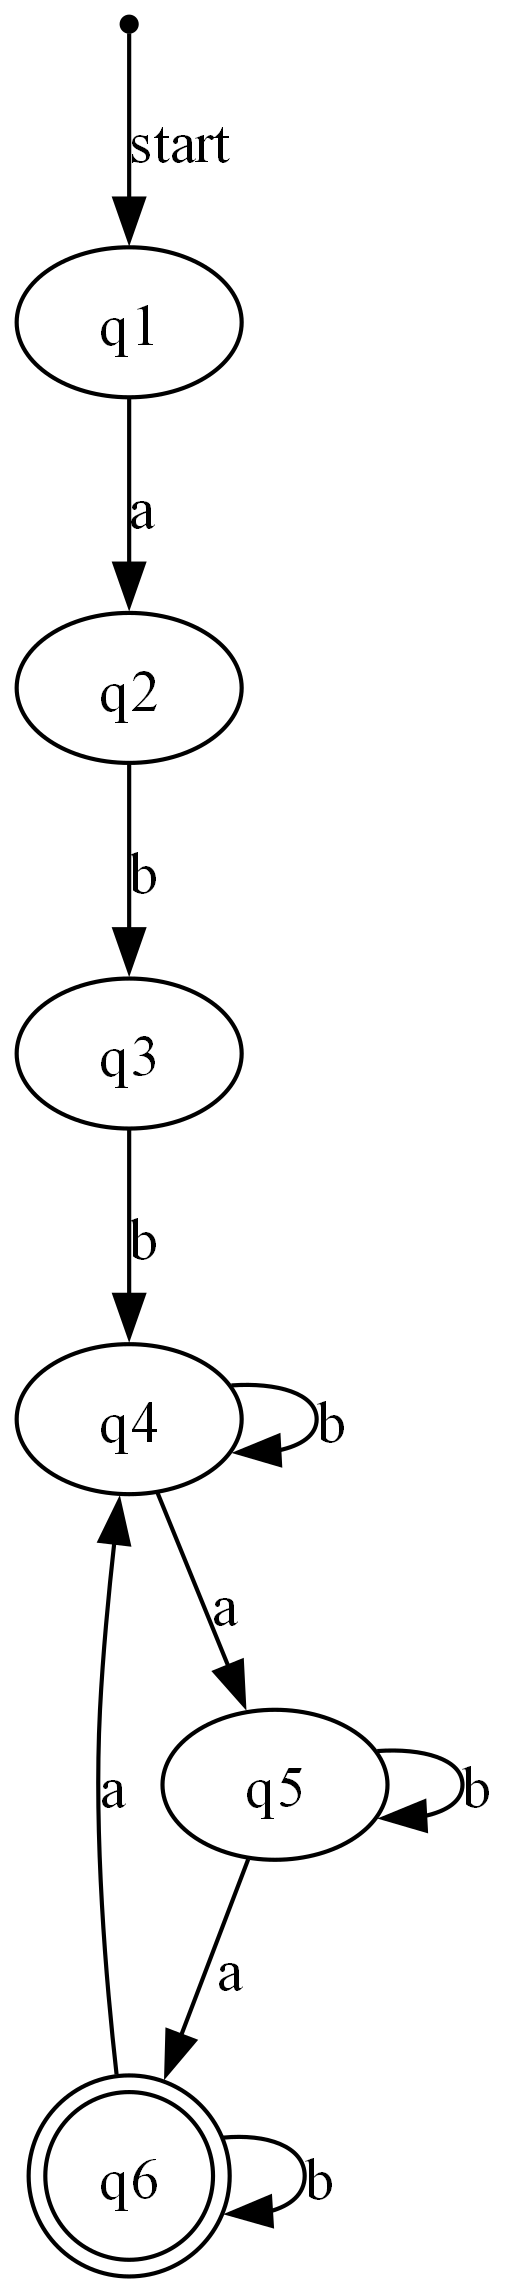
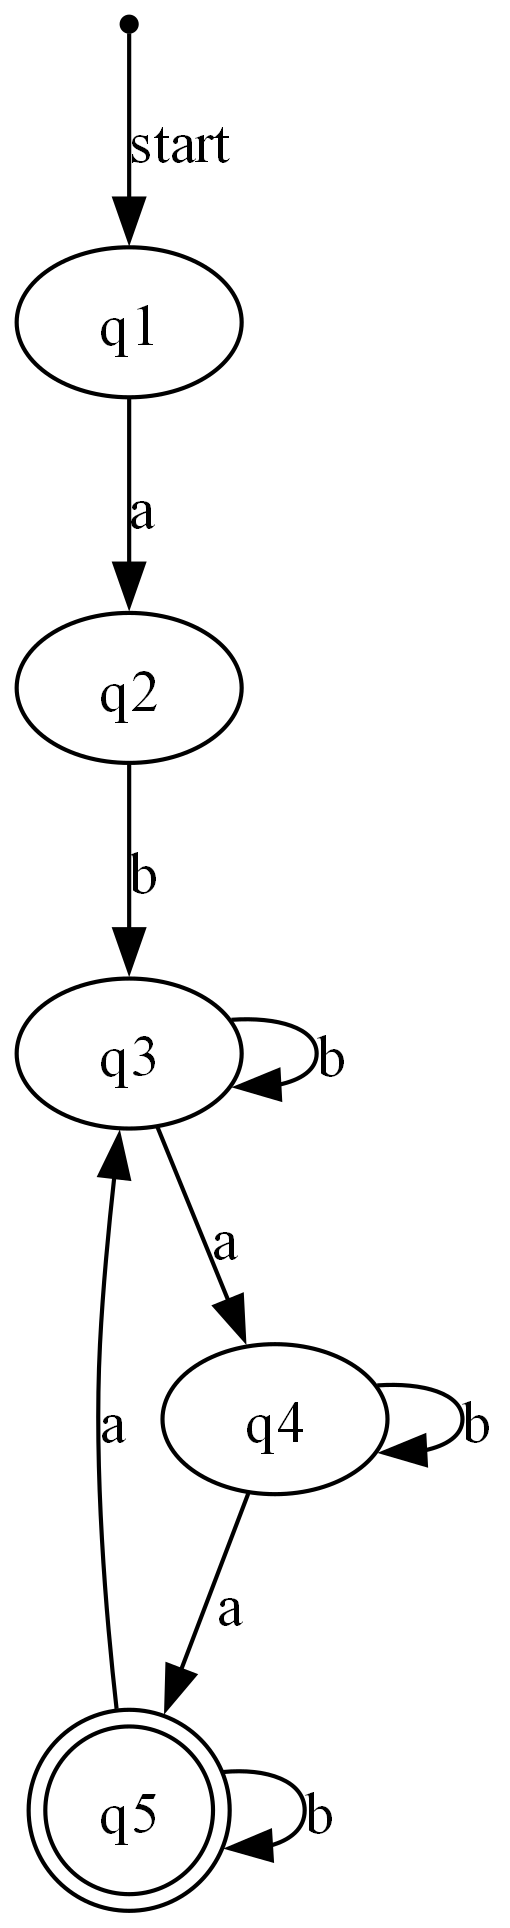
2b (corrected)

diff --git a/COMP5361_3.py b/COMP5361_3.py
@@ -16,7 +16,7 @@ import graphviz
 def generate_transition_diagram(states: set, alphabet: set, transitions: dict, start_state: str, accepting_states: set):
 
   #setting up the digraph to output into example_graph.png
-  dot = Digraph('example_graph', format='png', graph_attr={'size': '20,20', 'dpi':'300'})
+  dot = Digraph('example_graph', format='png', graph_attr={'size': '20,10', 'dpi':'300'})
 
 
   #Creates nodes for every state, with a double circle around accepting states
@@ -53,25 +53,23 @@ def generate_transition_diagram(states: set, alphabet: set, transitions: dict, s
 
     
 #Input
-states = {'q1', 'q2', 'q3', 'q4','q5','q6'}
+states = {'q1', 'q2', 'q3', 'q4','q5'}
 alphabet = {'a', 'b'}
 transitions = {
 
     ##abb
     'q1': {'a': {'q2'}, 'b': set()},
     'q2': {'a': set(), 'b': {'q3'}},
-    'q3': {'a': set(), 'b': {'q4'}},
-
     #aa + any combo with na/3=0
     
+    'q3': {'a': {'q4'}, 'b': {'q3'}},
     'q4': {'a': {'q5'}, 'b': {'q4'}},
-    'q5': {'a': {'q6'}, 'b': {'q5'}},
-    'q6': {'a': {'q4'}, 'b':{'q6'}},
+    'q5': {'a': {'q3'}, 'b':{'q5'}},
 
 
 }
 start_state = 'q1'
-accepting_states = {'q6'}
+accepting_states = {'q5'}
 
 #generating the transition diagram
 generate_transition_diagram(states, alphabet, transitions, start_state, accepting_states)
